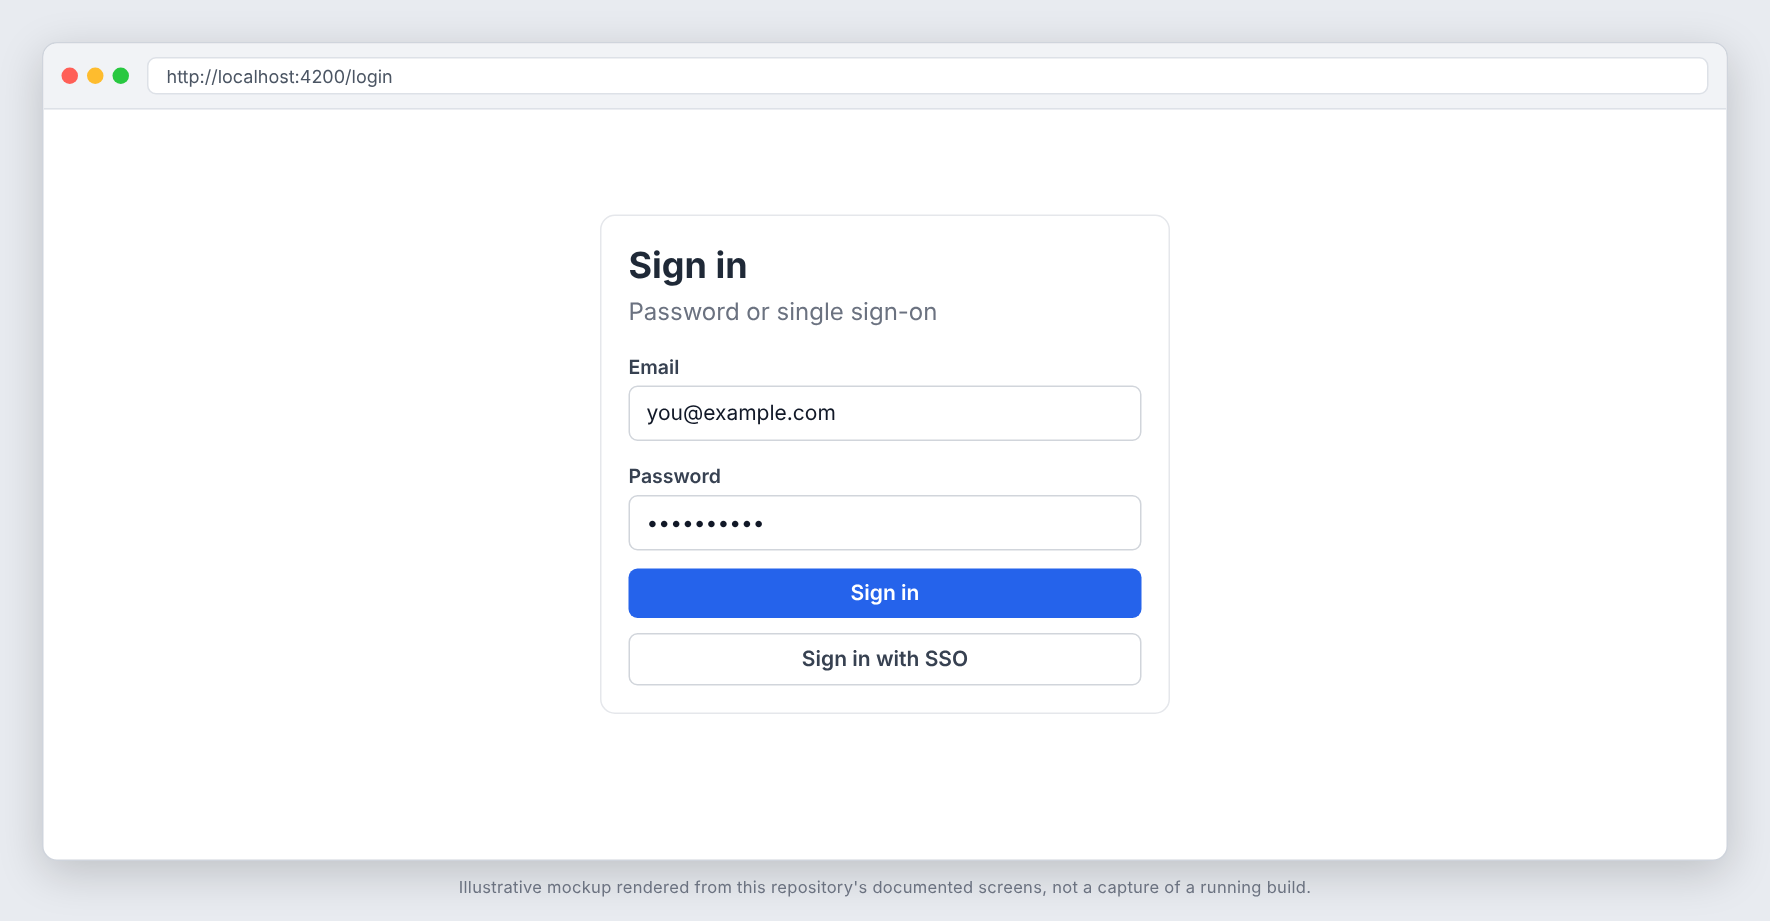
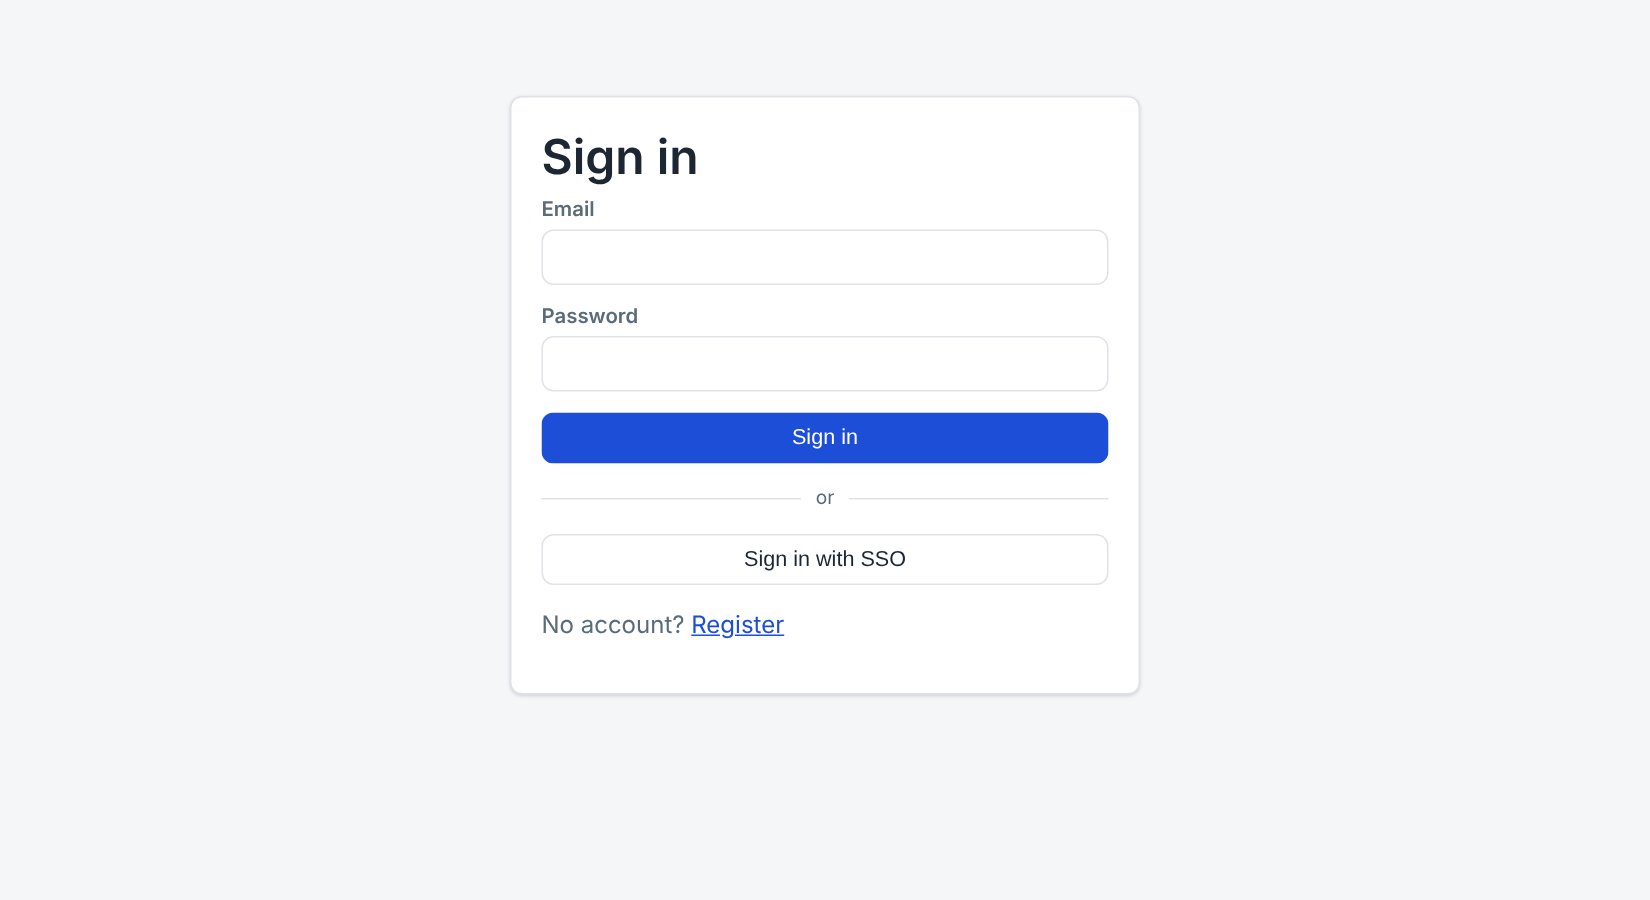
Replace mockups with real captures of the running app
Claude-Session: https://claude.ai/code/session_01MMnAbBEvfYn2oeVzGWoYsN

diff --git a/README.md b/README.md
@@ -24,11 +24,15 @@ The frontend is served at <http://localhost:8081>, the API at
 
 ## Screenshots
 
-![Login page](docs/screenshots/login.png)
+![Sign-in page with password and SSO options](docs/screenshots/login.png)
 
-![Users list](docs/screenshots/users.png)
+![Sign-in with a rejected password](docs/screenshots/login-error.png)
 
-_These images are illustrative mockups rendered from this repository's documented screens and API shapes, not captures of a running build. Regenerate or replace them with real captures once the app is running._
+![Dashboard after signing in](docs/screenshots/dashboard.png)
+
+![Users list as an admin](docs/screenshots/users.png)
+
+_Real captures from a local run (Spring Boot jar, Angular dev server, PostgreSQL), driven with Playwright. Keycloak was not running, so the SSO button is shown but not exercised, and one account was promoted to `ROLE_ADMIN` directly in the database to reach the Users page._
 
 ## What is included
 
